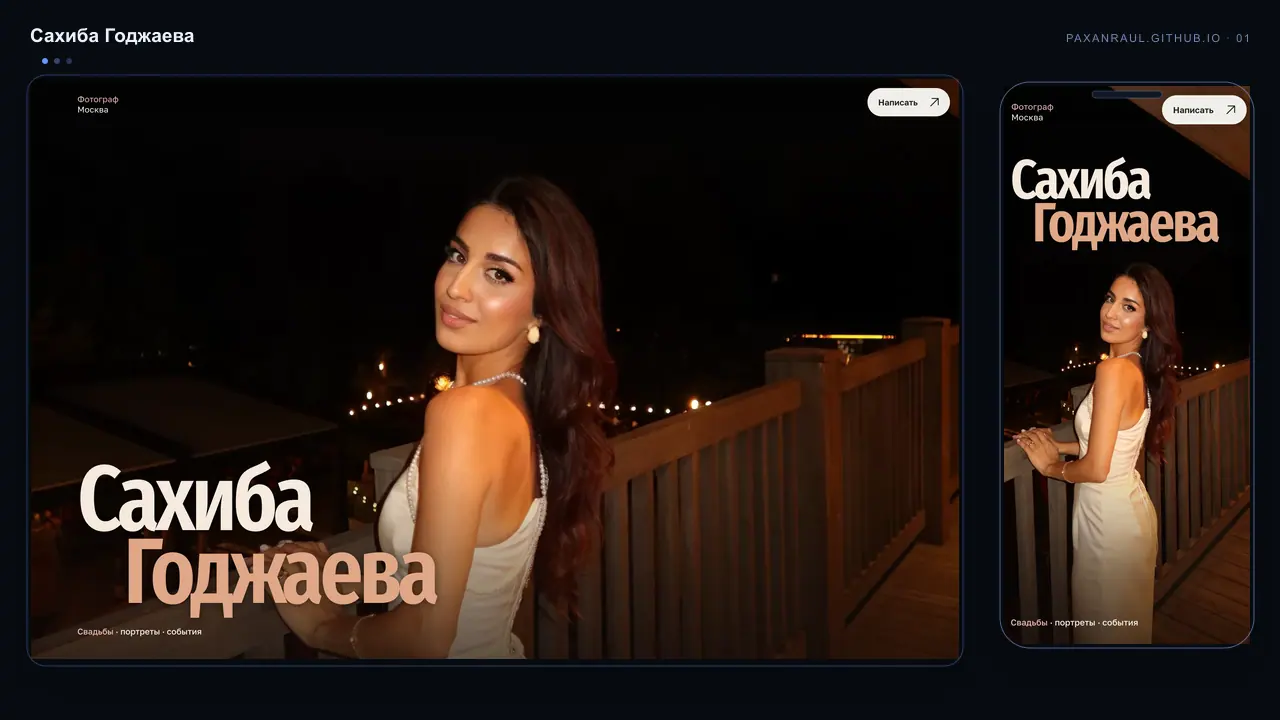
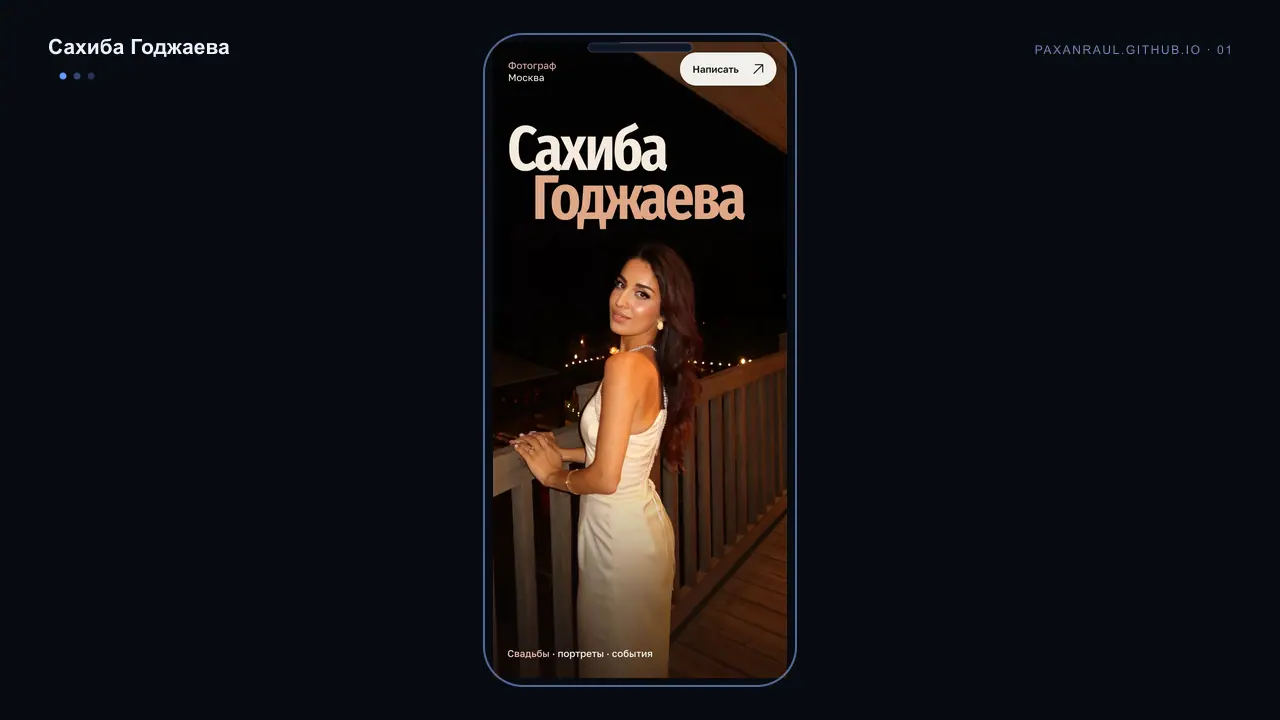
refactor: use mobile screenshots for Sahiba project

diff --git a/src/main.jsx b/src/main.jsx
@@ -52,9 +52,9 @@ const projects = [
     result: 'Портфолио и услуги собраны в эмоциональный, но понятный сценарий знакомства со специалистом.'
   },
   {
-    slug: 'sahiba', name: 'Сахиба Годжаева', number: '05', tone: 'Бартер · Реклама',
+    slug: 'sahiba', name: 'Сахиба Годжаева', number: '05', tone: 'Фотограф · Москва',
     description: 'Портфолио фотографа из Москвы. Выразительная редакционная композиция, крупные фотографии и спокойная навигация знакомят с автором и её съёмками — от свадеб до семейных историй.',
-    tags: ['Фотограф', 'Портфолио', 'Личный бренд', 'Лендинг', 'Бартер'],
+    tags: ['Фотограф', 'Портфолио', 'Личный бренд', 'Лендинг', 'Адаптивный дизайн'],
     liveUrl: 'https://paxanraul.github.io/sahiba-portfolio/',
     images: ['sahiba-01.png', 'sahiba-02.png', 'sahiba-03.png'].map(image),
     about: 'Портфолио московского фотографа Сахибы Годжаевой, созданное в рамках рекламного бартера.',
